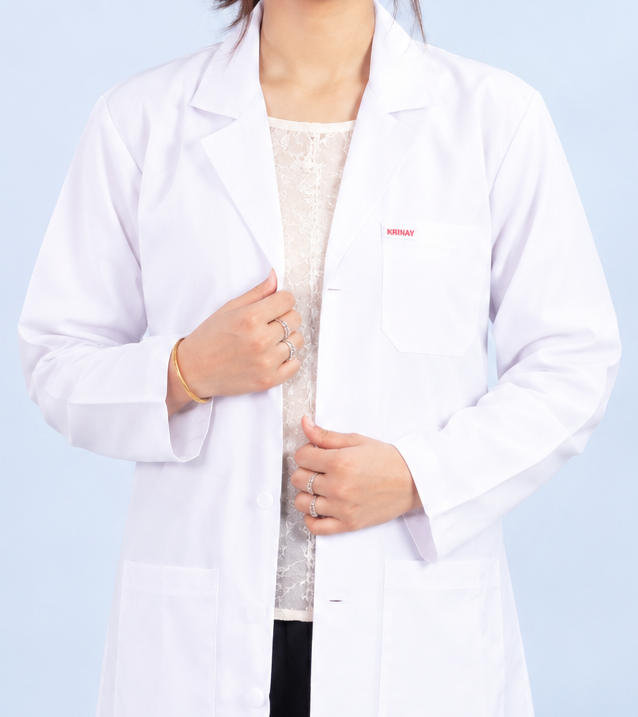
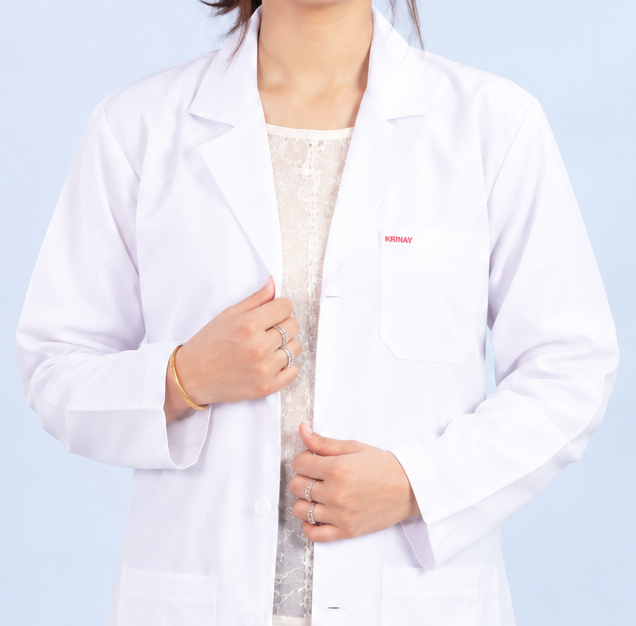
Fix male female embroidery preview

diff --git a/components/product/EmbroideryCustomizerModal.tsx b/components/product/EmbroideryCustomizerModal.tsx
@@ -220,41 +220,125 @@ function isApronProduct(
  */
 function getEmbroideryPreviewImage(
   productName: string,
-  productColor: string,
+  productColor: string
 ): string {
-  const gender = detectGender(productName);
-  const colour = detectColour(
-    productColor,
-    productName,
-  );
+  const name = productName.toLowerCase();
+  const colour = productColor.toLowerCase();
 
   /*
-   * Apron / Lab Coat gets dedicated image.
+   * IMPORTANT:
+   * Apron male/female product names are identical.
+   * Therefore gender must be detected from the product URL.
+   *
+   * Female:
+   * /product/flex-u-premium-medical-apron-female
+   *
+   * Male:
+   * /product/flex-u-premium-medical-apron-male
    */
-  if (isApronProduct(productName)) {
-    if (gender === "female") {
-      return `${EMBROIDERY_IMAGE_BASE}/f-apron.jpg`;
+  const pathname =
+    typeof window !== "undefined"
+      ? window.location.pathname.toLowerCase()
+      : "";
+
+  const isFemale =
+    pathname.includes("-female") ||
+    pathname.includes("womens-") ||
+    pathname.includes("women-");
+
+  const isMale =
+    pathname.includes("-male") ||
+    pathname.includes("mens-") ||
+    pathname.includes("men-");
+
+  /*
+   * =========================
+   * APRON / LAB COAT
+   * =========================
+   */
+  if (
+    name.includes("apron") ||
+    name.includes("lab coat") ||
+    name.includes("labcoat")
+  ) {
+    // Explicit male URL → male apron
+    if (isMale) {
+      return "/images/embroidery/m-apron.jpg";
     }
 
-    if (gender === "male") {
-      return `${EMBROIDERY_IMAGE_BASE}/m-apron.jpg`;
+    // Explicit female URL → female apron
+    if (isFemale) {
+      return "/images/embroidery/f-apron.jpg";
     }
 
-    return EMBROIDERY_DEFAULT_IMAGE;
+    // Fallback only if URL doesn't contain gender
+    return "/images/embroidery/f-apron.jpg";
   }
 
   /*
-   * Scrub product requires both gender and colour.
+   * =========================
+   * FEMALE SCRUBS
+   * =========================
    */
-  if (gender && colour) {
-    return `${EMBROIDERY_IMAGE_BASE}/${gender === "female" ? "f" : "m"}-${colour}.jpg`;
+  if (isFemale) {
+    if (colour.includes("airforce")) {
+      return "/images/embroidery/f-airforceblue.jpg";
+    }
+
+    if (colour.includes("royal")) {
+      return "/images/embroidery/f-royalblue.jpg";
+    }
+
+    if (colour.includes("black")) {
+      return "/images/embroidery/f-black.jpg";
+    }
+
+    if (colour.includes("wine")) {
+      return "/images/embroidery/f-wine.jpg";
+    }
+
+    if (colour.includes("olive")) {
+      return "/images/embroidery/f-olive.jpg";
+    }
+
+    return "/images/embroidery/f-airforceblue.jpg";
   }
 
   /*
-   * Safe fallback if a product name/colour cannot
-   * be identified.
+   * =========================
+   * MALE SCRUBS
+   * =========================
    */
-  return EMBROIDERY_DEFAULT_IMAGE;
+  if (isMale) {
+    if (colour.includes("airforce")) {
+      return "/images/embroidery/m-airforceblue.jpg";
+    }
+
+    if (colour.includes("royal")) {
+      return "/images/embroidery/m-royalblue.jpg";
+    }
+
+    if (colour.includes("black")) {
+      return "/images/embroidery/m-black.jpg";
+    }
+
+    if (colour.includes("wine")) {
+      return "/images/embroidery/m-wine.jpg";
+    }
+
+    if (colour.includes("olive")) {
+      return "/images/embroidery/m-olive.jpg";
+    }
+
+    return "/images/embroidery/m-airforceblue.jpg";
+  }
+
+  /*
+   * =========================
+   * FINAL FALLBACK
+   * =========================
+   */
+  return "/images/embroidery/f-airforceblue.jpg";
 }
 
 /* =========================================================

diff --git a/components/product/ProductDetailsClient.tsx b/components/product/ProductDetailsClient.tsx
@@ -759,7 +759,7 @@ export default function ProductDetailsClient({
       }
 
       /*
-       * Scrub customer must explicitly choose:
+       * Scrub / lab-coat customer must explicitly choose:
        * Add Embroidery OR Skip for Now.
        */
       if (
@@ -1516,6 +1516,27 @@ export default function ProductDetailsClient({
                   />
                 )}
 
+              </>
+            ) : (
+              <SizeSelector
+                title="Select Size"
+                sizes={
+                  product.sizes
+                }
+                selected={
+                  selectedSize
+                }
+                onSelect={
+                  setSelectedSize
+                }
+                onGuide={() =>
+                  setSizeGuideOpen(
+                    true,
+                  )
+                }
+              />
+            )}
+
                 {(product.productType === "scrub" || product.productType === "lab-coat") && (
                   <div className="mt-8 overflow-hidden rounded-2xl border border-[#eadada] bg-white shadow-sm">
                     <div className="bg-[#922424] px-5 py-4 text-white">
@@ -1650,26 +1671,6 @@ export default function ProductDetailsClient({
                     </div>
                   </div>
                 )}
-              </>
-            ) : (
-              <SizeSelector
-                title="Select Size"
-                sizes={
-                  product.sizes
-                }
-                selected={
-                  selectedSize
-                }
-                onSelect={
-                  setSelectedSize
-                }
-                onGuide={() =>
-                  setSizeGuideOpen(
-                    true,
-                  )
-                }
-              />
-            )}
 
             <div className="mt-8">
               <h2 className="text-sm font-black">

diff --git a/components/product/ProductCard.tsx b/components/product/ProductCard.tsx
@@ -348,8 +348,6 @@ export default function ProductCard({
      ======================================================= */
 
   const displayRating =
-    product.productType ===
-      "scrub" &&
     product.inStock
       ? 5
       : product.rating;
